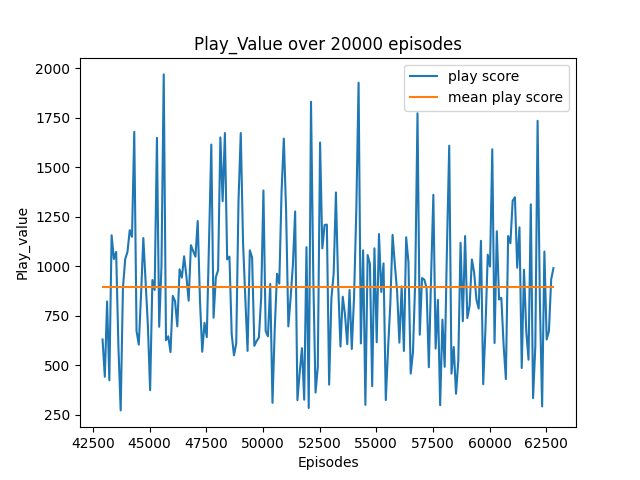
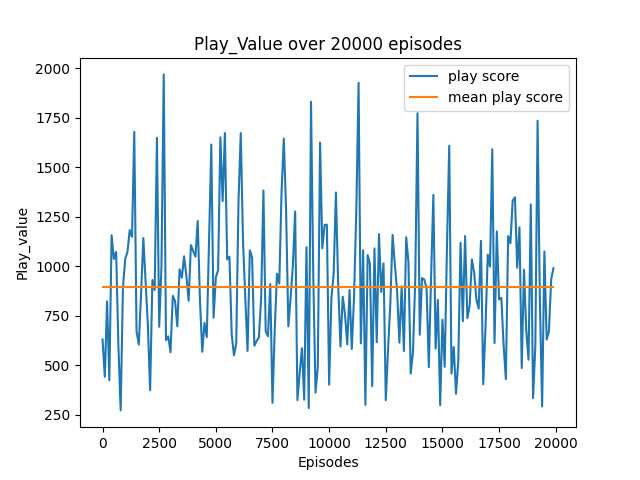
update plot

Changed region(s): [[0.0938, 0.9062, 0.9062, 0.9375]]

diff --git a/Half/plot.py b/Half/plot.py
@@ -43,8 +43,6 @@ losses = readfile(path='/Users/enzuomou/Desktop/cisc474_final_group/CISC474_2048
 for i in range(len(losses)):
     episode1.append(num)
     num = num + 20
-
-episode = list(range(19999))
 plt.plot(episode1,losses)
 
 plt.xlabel("Episodes")
@@ -54,13 +52,16 @@ plt.savefig("/Users/enzuomou/Desktop/cisc474_final_group/CISC474_2048dql/Half/pl
 plt.show()
 
 
-# Plot total score vs episodes
+# Plot total score over episodes
 scores = slice(readfile(path='/Users/enzuomou/Desktop/cisc474_final_group/CISC474_2048dql/Half/weights/', name='scores', rounding=False),100)
-print(scores)
+print('----------')
+print(len(scores))
 episode2 = []
+num1 = 0
 for i in range(len(scores)):
-    episode2.append(num)
-    num = num + 100
+    episode2.append(num1)
+    num1 = num1 + 100
+print(episode2)
 plt.plot(episode2,scores)
 plt.xlabel("Episodes")
 plt.ylabel("Scores")
@@ -73,16 +74,16 @@ plt.show()
 play = slice(readfile(path='/Users/enzuomou/Desktop/cisc474_final_group/CISC474_2048dql/Half/played/', name='final_value_trained', rounding=False),1)
 
 episode3 = []
+num2 = 0
 for i in range(len(play)):
-    episode3.append(num)
-    num = num + 100
-x= []
+    episode3.append(num2)
+    num2 = num2 + 100
+meanx= []
 for i in range(len(play)):
-    mean = sum(play)/len(play)
-    print(mean)
-    x.append(mean)
+    meanValue = sum(play)/len(play)
+    meanx.append(meanValue)
 plt.plot(episode3,play,label = "play score")
-plt.plot(episode3,x,label = "mean play score")
+plt.plot(episode3,meanx,label = "mean play score")
 plt.xlabel("Episodes")
 plt.ylabel("Play_value")
 plt.title("Play_Value over 20000 episodes")
